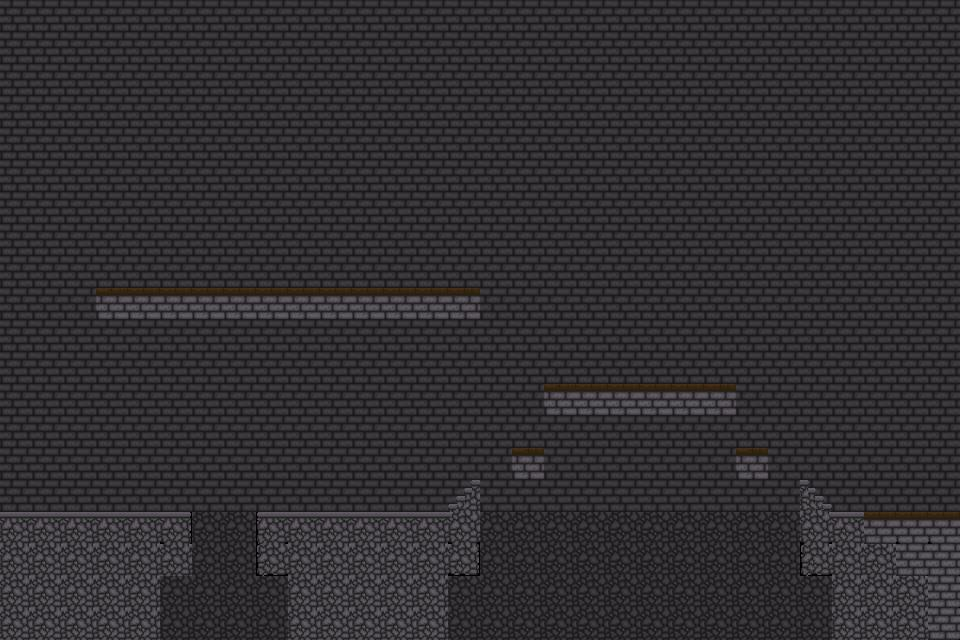
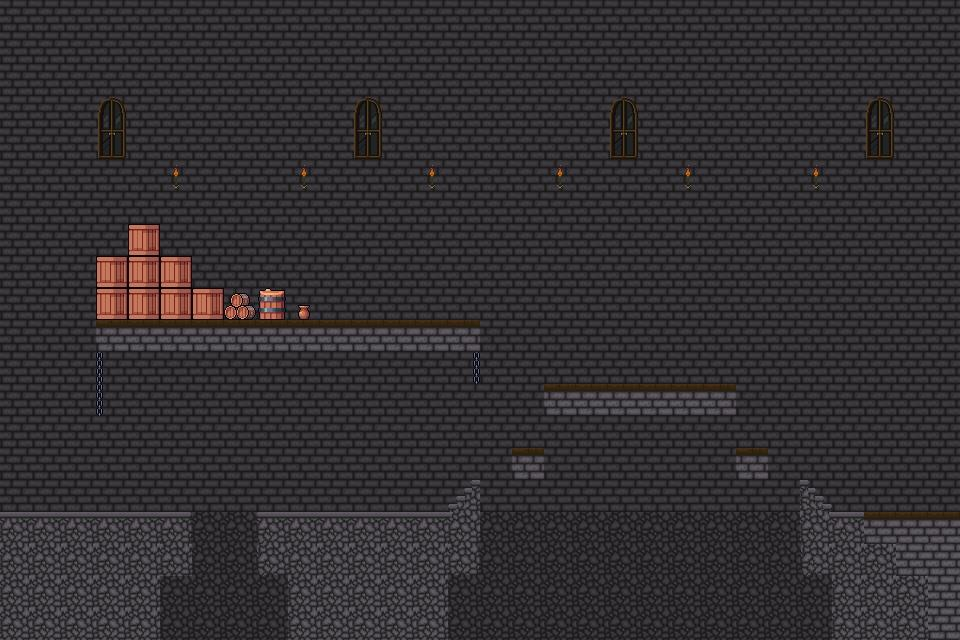
add Map4 5 6 + Lethal tile + fixspike bug

diff --git a/GameMap.java b/GameMap.java
@@ -57,10 +57,10 @@ public class GameMap {
             { 0, 0, 0, 0, 0, 0, 0, 0, 0, 0, 0, 0, 0, 0, 0, 0, 0, 0, 0, 0, 0, 0, 0, 0, 0, 0, 0, 0, 0, 0 },
             { 0, 0, 0, 0, 0, 0, 0, 0, 0, 0, 0, 0, 0, 0, 0, 0, 0, 0, 0, 0, 0, 0, 0, 0, 0, 0, 0, 0, 0, 0 },
             { 0, 0, 0, 0, 0, 0, 0, 0, 0, 0, 0, 0, 0, 0, 0, 0, 0, 0, 0, 0, 0, 0, 0, 0, 0, 0, 0, 0, 0, 0 },
-            { 0, 0, 0, 0, 0, 0, 0, 0, 0, 0, 0, 0, 0, 0, 0, 0, 0, 0, 0, 0, 0, 0, 0, 0, 0, 0, 0, 0, 0, 0 },
-            { 0, 0, 0, 0, 0, 0, 0, 0, 0, 0, 0, 0, 0, 0, 0, 0, 0, 0, 0, 0, 0, 0, 0, 0, 0, 0, 0, 0, 0, 0 },
-            { 0, 0, 0, 1, 1, 1, 1, 1, 1, 1, 1, 1, 1, 1, 1, 0, 0, 0, 0, 0, 0, 0, 0, 0, 0, 0, 0, 0, 0, 0 },
-            { 0, 0, 0, 0, 0, 0, 0, 0, 0, 0, 0, 0, 0, 0, 0, 0, 0, 0, 0, 0, 0, 0, 0, 0, 0, 0, 0, 0, 0, 0 },
+            { 0, 0, 0, 0, 1, 0, 0, 0, 0, 0, 0, 0, 0, 0, 0, 0, 0, 0, 0, 0, 0, 0, 0, 0, 0, 0, 0, 0, 0, 0 },
+            { 0, 0, 0, 1, 1, 1, 0, 0, 0, 0, 0, 0, 0, 0, 0, 0, 0, 0, 0, 0, 0, 0, 0, 0, 0, 0, 0, 0, 0, 0 },
+            { 0, 0, 0, 1, 1, 1, 1, 1, 0, 0, 0, 0, 0, 0, 0, 0, 0, 0, 0, 0, 0, 0, 0, 0, 0, 0, 0, 0, 0, 0 },
+            { 0, 0, 0, 1, 1, 1, 1, 1, 1, 1, 1, 1, 1, 1, 1, 0, 0, 0, 0, 0, 0, 0, 0, 0, 0, 0, 0, 0, 0, 0, 0 },
             { 0, 0, 0, 0, 0, 0, 0, 0, 0, 0, 0, 0, 0, 0, 0, 0, 0, 0, 0, 0, 0, 0, 0, 0, 0, 0, 0, 0, 0, 0 },
             { 0, 0, 0, 0, 0, 0, 0, 0, 0, 0, 0, 0, 0, 0, 0, 0, 0, 1, 1, 1, 1, 1, 1, 0, 0, 0, 0, 0, 0, 0 },
             { 0, 0, 0, 0, 0, 0, 0, 0, 0, 0, 0, 0, 0, 0, 0, 0, 0, 0, 0, 0, 0, 0, 0, 0, 0, 0, 0, 0, 0, 0 },
@@ -69,15 +69,15 @@ public class GameMap {
             { 1, 1, 1, 1, 1, 1, 0, 0, 1, 1, 1, 1, 1, 1, 1, 0, 0, 0, 0, 0, 0, 0, 0, 0, 0, 1, 1, 1, 1, 1 },
             { 1, 1, 1, 1, 1, 1, 0, 0, 1, 1, 1, 1, 1, 1, 1, 0, 0, 0, 0, 0, 0, 0, 0, 0, 0, 1, 1, 1, 1, 1 },
             { 1, 1, 1, 1, 1, 1, 0, 0, 1, 1, 1, 1, 1, 1, 1, 0, 0, 0, 0, 0, 0, 0, 0, 0, 0, 1, 1, 1, 1, 1 },
-            { 1, 1, 1, 1, 1, 1, 0, 0, 1, 1, 1, 1, 1, 1, 1, 0, 0, 0, 0, 0, 0, 0, 0, 0, 0, 1, 1, 1, 1, 1 }
+            { 1, 1, 1, 1, 1, 1, 3, 3, 1, 1, 1, 1, 1, 1, 1, 3, 3, 3, 3, 3, 3, 3, 3, 3, 3, 1, 1, 1, 1, 1 }
         },
         //map3
         {
             { 0, 0, 0, 0, 0, 0, 0, 0, 0, 0, 0, 0, 0, 0, 0, 0, 0, 0, 0, 0, 0, 0, 0, 0, 0, 0, 0, 0, 0, 0 },
             { 0, 0, 0, 0, 0, 0, 0, 0, 0, 0, 0, 0, 0, 0, 0, 0, 0, 0, 0, 0, 0, 0, 0, 0, 0, 0, 0, 0, 0, 0 },
             { 0, 0, 0, 0, 0, 0, 0, 0, 1, 1, 1, 1, 1, 1, 1, 1, 1, 1, 0, 0, 0, 0, 0, 0, 0, 0, 0, 0, 0, 0 },
-            { 0, 0, 0, 1, 1, 0, 0, 0, 0, 0, 0, 0, 0, 0, 0, 0, 0, 0, 0, 0, 0, 2, 2, 0, 0, 0, 0, 0, 0, 0 },
-            { 0, 0, 0, 0, 0, 0, 0, 0, 0, 0, 0, 0, 0, 0, 0, 0, 0, 0, 0, 1, 1, 1, 1, 0, 0, 0, 0, 0, 0, 0 },
+            { 0, 0, 0, 1, 1, 0, 0, 0, 0, 0, 0, 0, 0, 0, 0, 0, 0, 0, 0, 0, 0, 3, 3, 3, 3, 0, 0, 0, 0, 0 },
+            { 0, 0, 0, 0, 0, 0, 0, 0, 0, 0, 0, 0, 0, 0, 0, 0, 0, 0, 0, 1, 1, 1, 1, 1, 1, 0, 0, 0, 0, 0 },
             { 2, 0, 0, 0, 0, 0, 1, 1, 1, 0, 0, 0, 0, 0, 0, 0, 0, 0, 0, 0, 0, 0, 0, 0, 0, 0, 0, 0, 0, 0 },
             { 2, 0, 0, 0, 0, 0, 0, 0, 0, 0, 0, 0, 0, 0, 0, 0, 0, 0, 0, 0, 0, 0, 0, 0, 0, 0, 0, 0, 0, 0 },
             { 2, 0, 0, 0, 1, 0, 0, 0, 0, 0, 0, 0, 0, 0, 0, 0, 1, 1, 0, 0, 0, 0, 0, 0, 0, 0, 0, 0, 0, 0 },
@@ -93,6 +93,75 @@ public class GameMap {
             { 1, 1, 0, 0, 0, 0, 0, 0, 0, 0, 0, 0, 0, 0, 0, 0, 0, 0, 0, 0, 0, 0, 0, 0, 0, 0, 0, 0, 1, 1 },
             { 1, 0, 0, 0, 0, 0, 0, 0, 0, 0, 0, 0, 0, 0, 0, 0, 0, 0, 0, 0, 0, 0, 0, 0, 0, 0, 0, 0, 0, 1 },
             { 1, 2, 2, 2, 2, 2, 2, 2, 2, 2, 2, 2, 2, 2, 2, 2, 2, 2, 2, 2, 2, 2, 2, 2, 2, 2, 2, 2, 2, 1 }
+        },
+        //map4
+        {
+            { 0, 0, 0, 0, 0, 0, 0, 0, 0, 0, 0, 0, 0, 0, 0, 0, 0, 0, 0, 0, 0, 0, 0, 0, 0, 0, 0, 0, 0, 0 },
+            { 0, 0, 0, 0, 0, 0, 0, 0, 0, 0, 0, 0, 0, 0, 0, 0, 0, 0, 0, 0, 0, 0, 0, 0, 0, 0, 0, 0, 0, 0 },
+            { 0, 0, 0, 0, 0, 0, 0, 0, 0, 0, 0, 0, 0, 0, 0, 0, 0, 0, 0, 0, 0, 0, 0, 0, 0, 0, 0, 0, 0, 0 },
+            { 0, 0, 0, 0, 0, 0, 0, 0, 0, 0, 0, 0, 0, 0, 0, 0, 0, 0, 0, 0, 0, 0, 0, 0, 0, 0, 0, 0, 0, 0 },
+            { 0, 0, 0, 0, 0, 0, 0, 0, 0, 0, 0, 0, 0, 0, 0, 0, 0, 0, 0, 0, 0, 0, 0, 0, 0, 0, 0, 0, 0, 0 },
+            { 0, 0, 0, 0, 0, 0, 0, 0, 0, 0, 0, 0, 0, 0, 0, 0, 0, 0, 0, 0, 0, 0, 0, 0, 0, 0, 0, 0, 0, 0 },
+            { 0, 0, 0, 1, 1, 1, 1, 1, 1, 1, 1, 1, 1, 1, 1, 1, 1, 1, 1, 1, 1, 1, 1, 1, 1, 1, 1, 1, 1, 1 },
+            { 1, 1, 0, 0, 0, 0, 0, 0, 0, 0, 0, 0, 0, 0, 0, 0, 0, 0, 0, 0, 0, 0, 0, 0, 0, 0, 0, 0, 0, 1 },
+            { 1, 0, 1, 0, 0, 0, 0, 0, 0, 0, 0, 0, 0, 0, 0, 0, 0, 0, 0, 0, 0, 0, 0, 0, 0, 0, 0, 0, 0, 1 },
+            { 1, 0, 0, 1, 0, 0, 0, 0, 0, 0, 0, 0, 0, 0, 0, 0, 0, 0, 0, 0, 0, 0, 0, 0, 0, 0, 0, 0, 0, 1 },
+            { 1, 0, 0, 0, 1, 0, 0, 0, 0, 0, 0, 0, 0, 0, 0, 0, 0, 0, 0, 0, 0, 0, 0, 0, 0, 0, 0, 0, 0, 1 },
+            { 1, 1, 1, 1, 1, 1, 1, 1, 1, 1, 1, 1, 1, 1, 1, 1, 1, 1, 1, 1, 1, 1, 1, 0, 0, 0, 0, 0, 1, 1 },
+            { 0, 0, 0, 0, 0, 0, 0, 0, 0, 0, 0, 0, 0, 0, 0, 0, 0, 0, 0, 0, 0, 0, 0, 0, 0, 1, 1, 1, 1, 1 },
+            { 0, 0, 0, 0, 0, 0, 0, 0, 0, 0, 0, 0, 0, 0, 0, 0, 0, 0, 0, 0, 0, 0, 0, 0, 1, 0, 0, 0, 0, 0 },
+            { 0, 0, 0, 0, 0, 0, 0, 0, 0, 0, 0, 0, 0, 0, 0, 0, 0, 0, 0, 0, 0, 0, 0, 1, 0, 0, 0, 0, 0, 0 },
+            { 0, 0, 0, 0, 3, 0, 0, 0, 3, 0, 0, 0, 3, 0, 0, 0, 3, 0, 0, 0, 0, 0, 1, 0, 0, 0, 0, 0, 0, 0 },
+            { 1, 1, 1, 1, 1, 1, 1, 1, 1, 1, 1, 1, 1, 1, 1, 1, 1, 1, 1, 1, 1, 1, 1, 1, 1, 1, 1, 1, 1, 1 },
+            { 1, 1, 1, 1, 1, 1, 1, 1, 1, 1, 1, 1, 1, 1, 1, 1, 1, 1, 1, 1, 1, 1, 1, 1, 1, 1, 1, 1, 1, 1 },
+            { 1, 1, 1, 1, 1, 1, 1, 1, 1, 1, 1, 1, 1, 1, 1, 1, 1, 1, 1, 1, 1, 1, 1, 1, 1, 1, 1, 1, 1, 1 },
+            { 1, 1, 1, 1, 1, 1, 1, 1, 1, 1, 1, 1, 1, 1, 1, 1, 1, 1, 1, 1, 1, 1, 1, 1, 1, 1, 1, 1, 1, 1 }
+        },
+        //map5
+        {
+            { 0, 0, 0, 0, 0, 0, 0, 0, 0, 0, 0, 0, 0, 0, 0, 0, 0, 0, 0, 0, 0, 0, 0, 0, 0, 0, 0, 0, 0, 0, },
+            { 0, 0, 0, 0, 0, 0, 0, 0, 0, 0, 0, 0, 0, 0, 0, 0, 0, 0, 0, 0, 0, 0, 0, 0, 0, 0, 0, 0, 0, 0, },
+            { 0, 0, 0, 0, 0, 0, 0, 0, 0, 0, 0, 0, 0, 0, 0, 0, 0, 0, 0, 0, 0, 0, 0, 0, 0, 0, 0, 0, 0, 0, },
+            { 0, 0, 0, 0, 0, 0, 0, 0, 0, 0, 0, 0, 0, 0, 0, 0, 1, 1, 0, 0, 0, 0, 0, 0, 0, 0, 0, 0, 0, 0, },
+            { 0, 0, 0, 0, 0, 0, 0, 0, 0, 0, 0, 0, 0, 0, 0, 0, 1, 1, 0, 0, 0, 0, 0, 0, 0, 0, 0, 0, 0, 0, },
+            { 1, 1, 0, 0, 0, 0, 0, 0, 0, 0, 0, 0, 0, 0, 1, 0, 1, 1, 0, 0, 0, 0, 0, 0, 0, 0, 0, 0, 0, 0, },
+            { 1, 1, 0, 0, 1, 0, 0, 0, 0, 0, 0, 0, 1, 0, 1, 0, 1, 1, 0, 0, 0, 0, 0, 0, 0, 0, 0, 0, 0, 0, },
+            { 1, 1, 0, 0, 1, 0, 0, 1, 1, 1, 0, 0, 1, 0, 1, 0, 1, 1, 0, 0, 0, 0, 0, 0, 0, 0, 0, 0, 0, 0, },
+            { 1, 1, 0, 0, 1, 0, 0, 1, 1, 1, 0, 0, 1, 0, 1, 0, 1, 1, 0, 0, 0, 0, 0, 0, 0, 0, 0, 0, 0, 0, },
+            { 1, 1, 0, 0, 1, 0, 0, 1, 1, 1, 0, 0, 1, 0, 1, 0, 1, 1, 0, 0, 0, 0, 0, 0, 0, 0, 0, 0, 0, 0, },
+            { 1, 1, 0, 0, 1, 0, 0, 1, 1, 1, 0, 0, 1, 0, 1, 0, 1, 1, 0, 0, 0, 1, 1, 0, 0, 0, 0, 0, 0, 0, },
+            { 1, 1, 0, 0, 1, 0, 0, 1, 1, 1, 0, 0, 1, 0, 1, 0, 1, 1, 0, 0, 0, 1, 1, 0, 0, 0, 0, 0, 0, 0, },
+            { 1, 1, 0, 0, 1, 0, 0, 1, 1, 1, 0, 0, 1, 0, 1, 0, 1, 1, 0, 0, 0, 1, 1, 0, 0, 1, 0, 0, 0, 0, },
+            { 1, 1, 0, 0, 1, 0, 0, 1, 1, 1, 0, 0, 1, 0, 1, 0, 1, 1, 0, 0, 0, 1, 1, 0, 0, 1, 0, 0, 0, 0, },
+            { 1, 1, 0, 0, 1, 0, 0, 1, 1, 1, 0, 0, 1, 0, 1, 0, 1, 1, 0, 0, 0, 1, 1, 0, 0, 1, 0, 0, 0, 0, },
+            { 1, 1, 0, 0, 1, 0, 0, 1, 1, 1, 0, 0, 1, 0, 1, 0, 1, 1, 0, 0, 0, 1, 1, 0, 0, 1, 0, 0, 0, 0, },
+            { 1, 1, 0, 0, 1, 0, 0, 1, 1, 1, 0, 0, 1, 0, 1, 0, 1, 1, 0, 0, 0, 1, 1, 0, 0, 1, 0, 0, 1, 1, },
+            { 1, 1, 0, 0, 1, 0, 0, 1, 1, 1, 0, 0, 1, 0, 1, 0, 1, 1, 0, 0, 0, 1, 1, 0, 0, 1, 0, 0, 1, 1, },
+            { 1, 1, 0, 0, 1, 0, 0, 1, 1, 1, 0, 0, 1, 0, 1, 0, 1, 1, 0, 0, 0, 1, 1, 0, 0, 1, 0, 0, 1, 1, },
+            { 1, 1, 3, 3, 1, 3, 3, 1, 1, 1, 3, 3, 1, 3, 1, 3, 1, 1, 3, 3, 3, 1, 1, 3, 3, 1, 3, 3, 1, 1, }
+        },
+        //map6
+        {
+            { 0, 0, 0, 0, 0, 0, 0, 0, 0, 0, 0, 0, 0, 0, 0, 0, 0, 0, 0, 0, 0, 0, 0, 0, 0, 0, 0, 0, 0, 0 },
+            { 0, 0, 0, 0, 0, 0, 0, 0, 0, 0, 0, 0, 0, 0, 0, 0, 0, 0, 0, 0, 0, 0, 0, 0, 0, 0, 0, 0, 0, 0 },
+            { 0, 0, 0, 0, 0, 0, 0, 0, 0, 0, 0, 0, 0, 0, 0, 0, 0, 0, 0, 0, 0, 0, 0, 0, 0, 0, 0, 0, 0, 0 },
+            { 0, 0, 0, 0, 0, 0, 0, 0, 0, 0, 0, 0, 0, 0, 0, 0, 0, 0, 0, 0, 0, 0, 0, 0, 0, 0, 0, 0, 0, 0 },
+            { 0, 0, 0, 0, 0, 0, 0, 0, 0, 0, 0, 0, 0, 0, 0, 0, 0, 0, 0, 0, 0, 0, 0, 0, 0, 0, 0, 0, 0, 0 },
+            { 0, 0, 0, 0, 0, 0, 0, 0, 0, 0, 0, 0, 0, 0, 0, 0, 0, 0, 0, 0, 0, 0, 0, 0, 0, 0, 0, 0, 0, 0 },
+            { 0, 0, 0, 0, 0, 0, 0, 0, 0, 0, 0, 0, 0, 0, 0, 0, 0, 0, 0, 0, 0, 0, 0, 0, 0, 0, 0, 0, 0, 0 },
+            { 0, 0, 0, 0, 0, 0, 0, 0, 0, 0, 0, 0, 0, 0, 0, 0, 0, 0, 0, 0, 0, 0, 0, 0, 0, 0, 0, 0, 0, 0 },
+            { 0, 0, 0, 0, 0, 0, 0, 0, 0, 0, 0, 0, 0, 0, 0, 0, 0, 0, 0, 0, 0, 0, 0, 0, 0, 0, 0, 0, 0, 0 },
+            { 0, 0, 0, 0, 0, 0, 0, 0, 0, 0, 0, 0, 0, 0, 0, 0, 0, 0, 0, 0, 0, 0, 0, 0, 0, 0, 0, 0, 0, 0 },
+            { 0, 0, 0, 0, 0, 0, 0, 0, 0, 0, 0, 0, 0, 0, 0, 0, 0, 0, 0, 0, 0, 0, 0, 0, 0, 0, 0, 0, 0, 0 },
+            { 0, 0, 0, 0, 0, 0, 0, 0, 0, 0, 0, 0, 0, 0, 0, 0, 0, 0, 0, 0, 0, 0, 0, 0, 0, 0, 0, 0, 0, 0 },
+            { 0, 0, 0, 0, 0, 0, 0, 0, 0, 0, 0, 0, 0, 0, 0, 0, 0, 0, 0, 0, 0, 0, 0, 0, 0, 0, 0, 0, 0, 0 },
+            { 0, 0, 0, 0, 0, 0, 0, 0, 0, 0, 0, 0, 0, 0, 0, 0, 0, 0, 0, 0, 0, 0, 0, 0, 0, 0, 0, 0, 0, 0 },
+            { 0, 0, 0, 0, 0, 0, 0, 0, 0, 0, 0, 0, 0, 0, 0, 0, 0, 0, 0, 0, 0, 0, 0, 0, 0, 0, 0, 0, 0, 0 },
+            { 0, 0, 0, 0, 0, 0, 0, 0, 0, 0, 0, 0, 0, 0, 0, 0, 0, 0, 0, 0, 0, 0, 0, 0, 0, 0, 0, 0, 0, 0 },
+            { 1, 1, 1, 1, 1, 1, 1, 1, 1, 1, 1, 1, 1, 1, 1, 1, 1, 1, 1, 1, 1, 1, 1, 1, 1, 1, 1, 1, 1, 1 },
+            { 1, 1, 1, 1, 1, 1, 1, 1, 1, 1, 1, 1, 1, 1, 1, 1, 1, 1, 1, 1, 1, 1, 1, 1, 1, 1, 1, 1, 1, 1 },
+            { 1, 1, 1, 1, 1, 1, 1, 1, 1, 1, 1, 1, 1, 1, 1, 1, 1, 1, 1, 1, 1, 1, 1, 1, 1, 1, 1, 1, 1, 1 },
+            { 1, 1, 1, 1, 1, 1, 1, 1, 1, 1, 1, 1, 1, 1, 1, 1, 1, 1, 1, 1, 1, 1, 1, 1, 1, 1, 1, 1, 1, 1 }
         },
     };
     
@@ -125,6 +194,17 @@ public class GameMap {
         return currentmapData[row][col] == 2; 
     }
     
+    public boolean isLethal(int x,int y) {
+        int col = x / TILE_SIZE;
+        int row = y / TILE_SIZE;
+        int[][] currentmapData = allmapData[currentLevel];
+
+        if (col < 0 || col >= currentmapData[0].length || row < 0 || row >= currentmapData.length) {
+            return false;
+        }
+        return currentmapData[row][col] == 3; 
+    }
+    
     //for clear
     public void clearMapVisuals(JLabel drawpane) {
         for (JLabel tile : mapTiles) {
@@ -152,6 +232,9 @@ public class GameMap {
                         } 
                         else if (tileValue == 2) {
                             debugTile.setBorder(BorderFactory.createLineBorder(Color.ORANGE, 2));
+                        }
+                        else if (tileValue == 3) {
+                            debugTile.setBorder(BorderFactory.createLineBorder(Color.WHITE));
                         }
 
                         drawpane.add(debugTile);

diff --git a/Labels.java b/Labels.java
@@ -428,11 +428,34 @@ class Knight extends JLabel {
         else if (map.isHazard(curX + 15, curY) || map.isHazard(curX + width - 15, curY)) {
             hitHazard = true;
         }
-        else if (map.isHazard(curX, curY + height/2) || map.isHazard(curX + width, curY + height/2)) {
+        else if (map.isHazard(curX - 1, curY + height - 10) || map.isHazard(curX + width + 1, curY + height - 10)) {
             hitHazard = true;
         }
         if (hitHazard) {
             damage(25);
+            vy = -10; 
+                onGround = false;
+                if (turnLeft) {
+                    vx = 8; 
+                } 
+                else {
+                    vx = -8;
+                }
+        }
+        
+        boolean hitLethal = false;
+        
+        if (map.isLethal(curX + 15, curY + height) || map.isLethal(curX + width - 15, curY + height)) {
+            hitLethal = true;
+        }
+        else if (map.isLethal(curX + 15, curY) || map.isLethal(curX + width - 15, curY)) {
+            hitLethal = true;
+        }
+        else if (map.isLethal(curX - 1, curY + height - 10) || map.isLethal(curX + width + 1, curY + height - 10)) {
+            hitLethal = true;
+        }
+        if (hitLethal) {
+            damage(99);
             vy = -10; 
                 onGround = false;
                 if (turnLeft) {

diff --git a/MainApplication.java b/MainApplication.java
@@ -180,6 +180,15 @@ public class MainApplication extends JFrame {
         Image bg3 = new ImageIcon(GameConstants.FILE_BG_MAP3).getImage();
         bg3 = bg3.getScaledInstance(framewidth, frameheight, Image.SCALE_SMOOTH);
         backgroundImages.add(new GameIcon(bg3));
+        Image bg4 = new ImageIcon(GameConstants.FILE_BG_MAP4).getImage();
+        bg4 = bg4.getScaledInstance(framewidth, frameheight, Image.SCALE_SMOOTH);
+        backgroundImages.add(new GameIcon(bg4));
+        Image bg5 = new ImageIcon(GameConstants.FILE_BG_MAP5).getImage();
+        bg5 = bg5.getScaledInstance(framewidth, frameheight, Image.SCALE_SMOOTH);
+        backgroundImages.add(new GameIcon(bg5));
+        Image bg6 = new ImageIcon(GameConstants.FILE_BG_MAP6).getImage();
+        bg6 = bg6.getScaledInstance(framewidth, frameheight, Image.SCALE_SMOOTH);
+        backgroundImages.add(new GameIcon(bg6));
         gameMap.drawMap(drawpane);//usefordebug
         drawpane.revalidate();//usefordebug
         drawpane.repaint();//usefordebug

diff --git a/Utilities.java b/Utilities.java
@@ -22,6 +22,9 @@ interface GameConstants
     static final String FILE_BG_MAP1     = PATH + "tilebase1.jpg";
     static final String FILE_BG_MAP2     = PATH + "tilebase2.jpg";
     static final String FILE_BG_MAP3     = PATH + "tilebase3.jpg";
+    static final String FILE_BG_MAP4     = PATH + "tilebase4.jpg";
+    static final String FILE_BG_MAP5     = PATH + "tilebase5.jpg";
+    static final String FILE_BG_MAP6     = PATH + "tilebase6.jpg";
     
     static final String FILE_THEME       = PATH + "CardCastle.wav";
     
